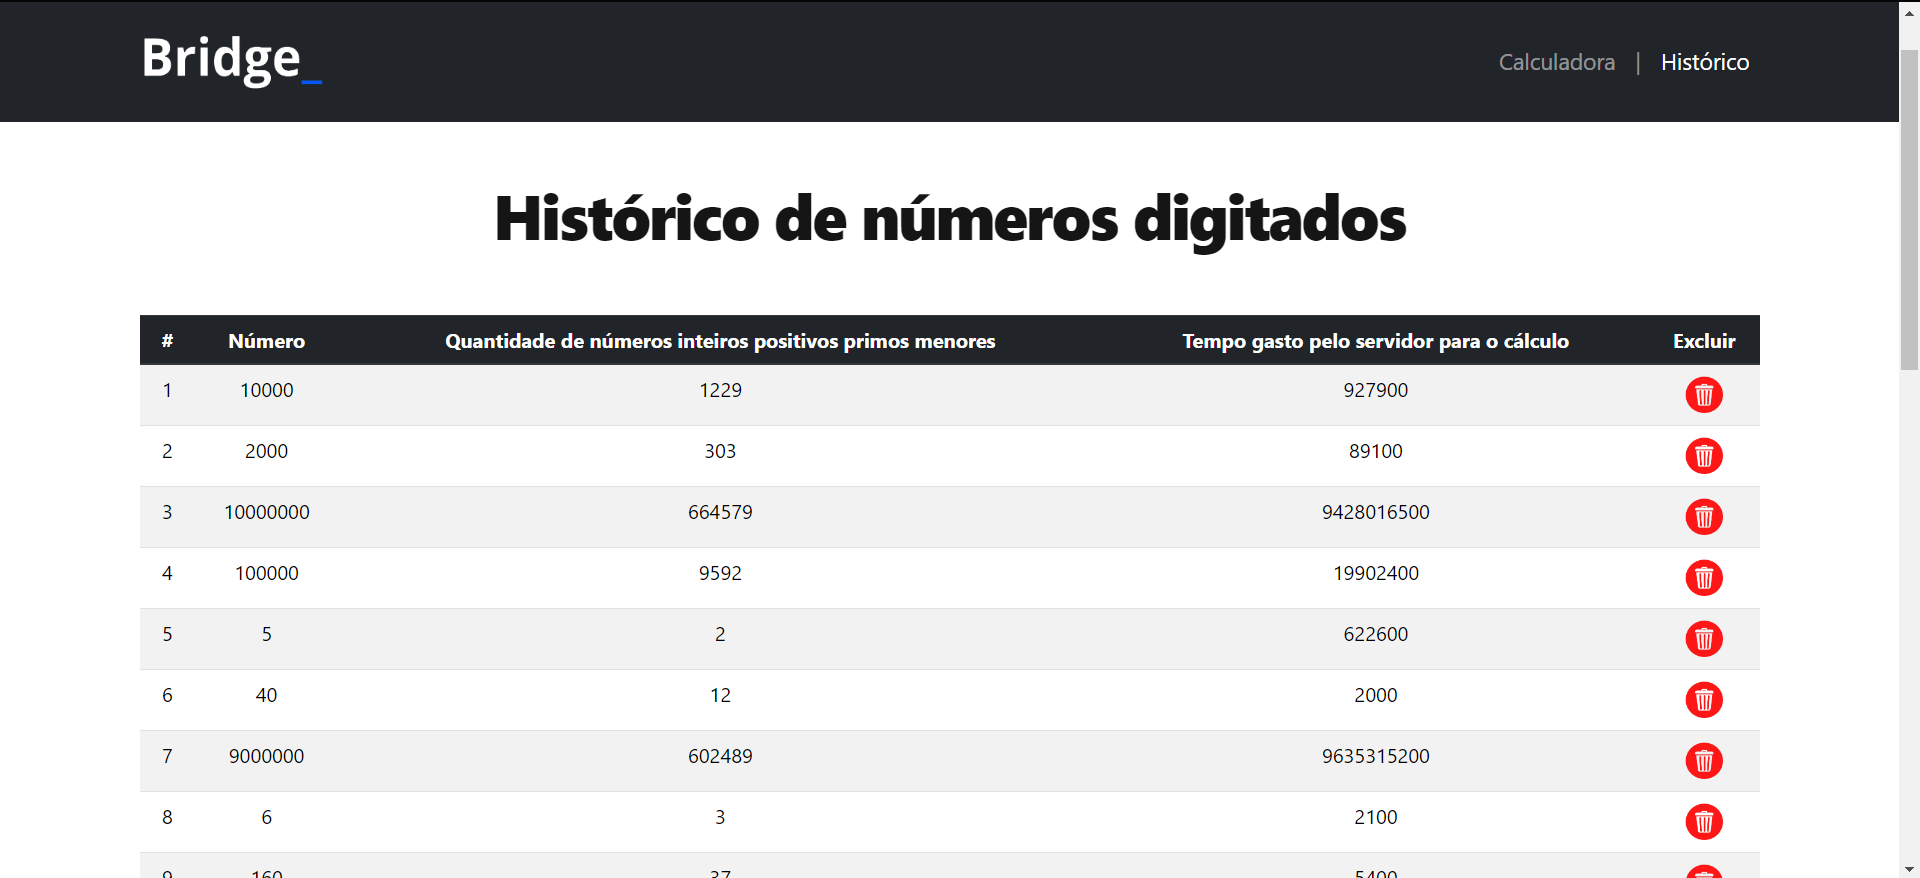
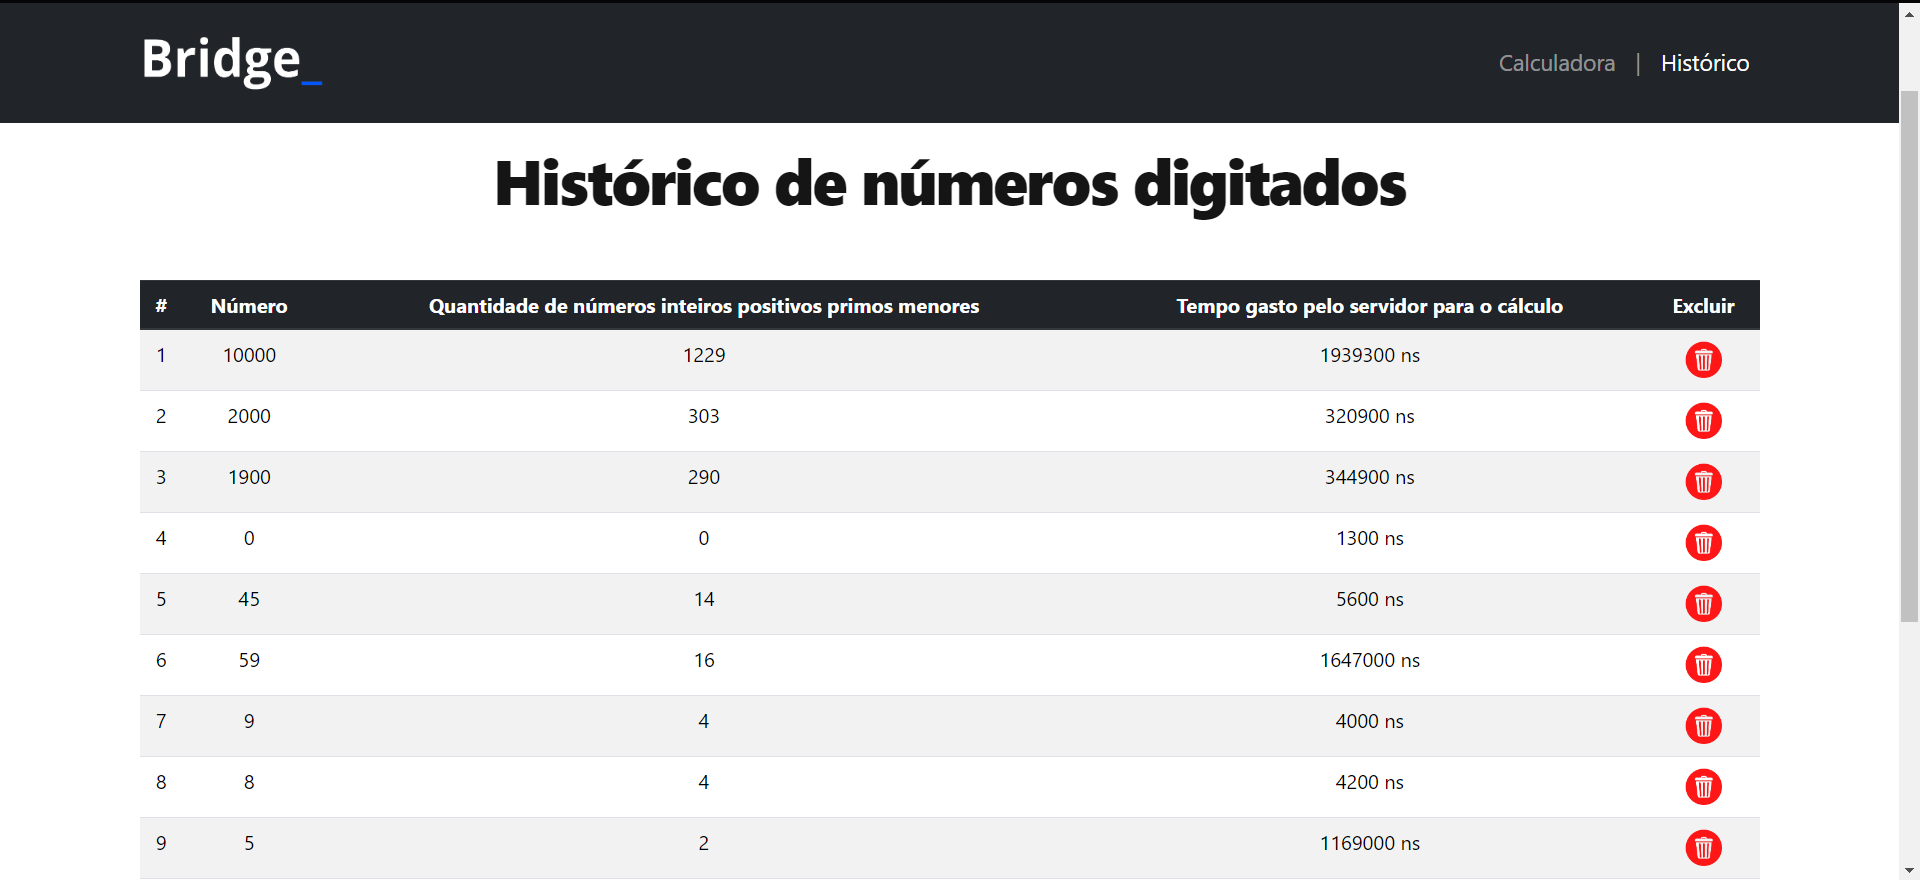
ajustes de exibição

diff --git a/frontend/js/historico.js b/frontend/js/historico.js
@@ -11,7 +11,7 @@ function mostrar(calculos) {
                     <td>${contador}</td>
                     <td>${calculo.numero}</td>
                     <td>${calculo.quantidadePrimos}</td>
-                    <td>${calculo.tempoUtilizado}</td>
+                    <td>${calculo.tempoUtilizado} ns</td>
                     <td>
                         <button class="btn-historico" value="${calculo.id}" onclick="excluir(${calculo.id})"><img src="imagens/excluir.png" width="30" height="30"></button>
                     </td>
